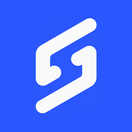
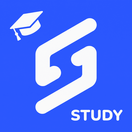
[Fix] 全アイコンを右下 STUDY 入りの通常版に揃える (#405)
タブ・サイドバー用も S のみではなく、学士帽・S・STUDY のデザインにする。

diff --git a/docs/specification.md b/docs/specification.md
@@ -1587,7 +1587,7 @@ X 向けの共有リンク（`https://twitter.com/intent/tweet?text=...&url=...`
 ### 14.1 マニフェスト・サービスワーカー・インストール案内
 
 - **マニフェスト**（`app/manifest.ts`）: `name` / `short_name` は Sinlab Study、`start_url` は `/`、`display` は `standalone`。`theme_color` / `background_color` は `app/constants/pwa.ts` の sRGB（`globals.css` の oklch トークンの代替。マニフェストは oklch を受けない）。アイコンは 192px・512px を `purpose: any`（`/icons/icon-*.png`）と `purpose: maskable`（`/icons/icon-maskable-*.png`。余白つき別ファイル）の両方で載せる（`maskable` だけだと Chrome がインストール可能と判定しない）。`app/apple-icon.png`（180px）と `metadata.appleWebApp`、`viewport.themeColor`（ライト・ダーク）を付ける
-- **アイコン**（#405）: 青地に白いロゴ。用途別の3種を使う。(1) 通常版（学士帽・S・STUDY）→ `public/icons/icon-192.png` / `icon-512.png`（PWA `any`・Web Push）と `app/apple-icon.png`。(2) maskable 版（ロゴを中央に縮めた余白つき）→ `icon-maskable-192.png` / `icon-maskable-512.png`。(3) 小サイズ版（「S」のみ）→ `app/icon.png` / `public/icon.png`（タブ・サイドバー・`/demo` の 24〜28px）
+- **アイコン**（#405）: 青地に白いロゴ（学士帽・S・右下に STUDY）。全サイズで同じデザインを使う。(1) 通常版 → `public/icons/icon-192.png` / `icon-512.png`（PWA `any`・Web Push）、`app/apple-icon.png`（180px）、`app/icon.png` / `public/icon.png`（132px。タブ・サイドバー・`/demo`）。(2) maskable 版（同じロゴを中央に縮めた余白つき）→ `icon-maskable-192.png` / `icon-maskable-512.png`
 - **サービスワーカー**（`public/sw.js`）: `/_next/static/*` は cache-first。アイコン（`/icon.png`・`/apple-icon.png`・`/icons/`）は URL にハッシュが無いので network-first（成功時にキャッシュを更新し、オフライン時だけキャッシュを使う）。`/offline` は install でキャッシュする。キャッシュ名（`STATIC_CACHE`）はバージョン付きで、ルール・オフライン HTML・アイコン差し替え時にバンプする。`activate` でそれ以外の名前のキャッシュを削除する。ナビゲーションは常にネットワーク優先で、失敗時だけそのキャッシュ（「オフラインです」）を返す。認証配下の HTML と `/api/*` はキャッシュしない（降格・却下・ロックの反映が遅れないようにする）。`next.config.ts` の `headers()` で `/sw.js` に `Cache-Control: no-cache` と `Service-Worker-Allowed: /` を付ける。登録は `ServiceWorkerRegistration` が本番ビルドだけで行う
 - **プロキシ**: `shouldSkipMiddleware()` は上の 4 パスを完全一致でのみ通す。`/offline/anything` のような配下は通さない。うち `/manifest.webmanifest`・`/sw.js`・`/apple-icon.png` は拡張子マッチでも通るが、インストールに必要なパスの許可リストとして明示する（増やさない）。環境変数欠落・例外・status null の `/login` へのフェイルクローズは変えない
 - **インストール案内**: ホーム（`/`）の `InstallPrompt`。`display-mode: standalone` でも `navigator.standalone` でもない、かつモバイル UA（iPadOS 13+ の Macintosh + タッチを含む）、かつ閉じていない（`localStorage`。失敗は無視）ときだけ出す。`beforeinstallprompt` はルート layout のクライアントモジュールで先行捕捉し、`/` 以外で発火してもホームで使える。iOS は「共有 → ホーム画面に追加」の手順。Android はイベントがあるときボタンで `prompt()` を呼び、無いときはブラウザメニューからの追加手順を出す。`prompt()` の拒否や OS ダイアログのキャンセルでは閉じた扱いにしない。インストール済みでは出さない
